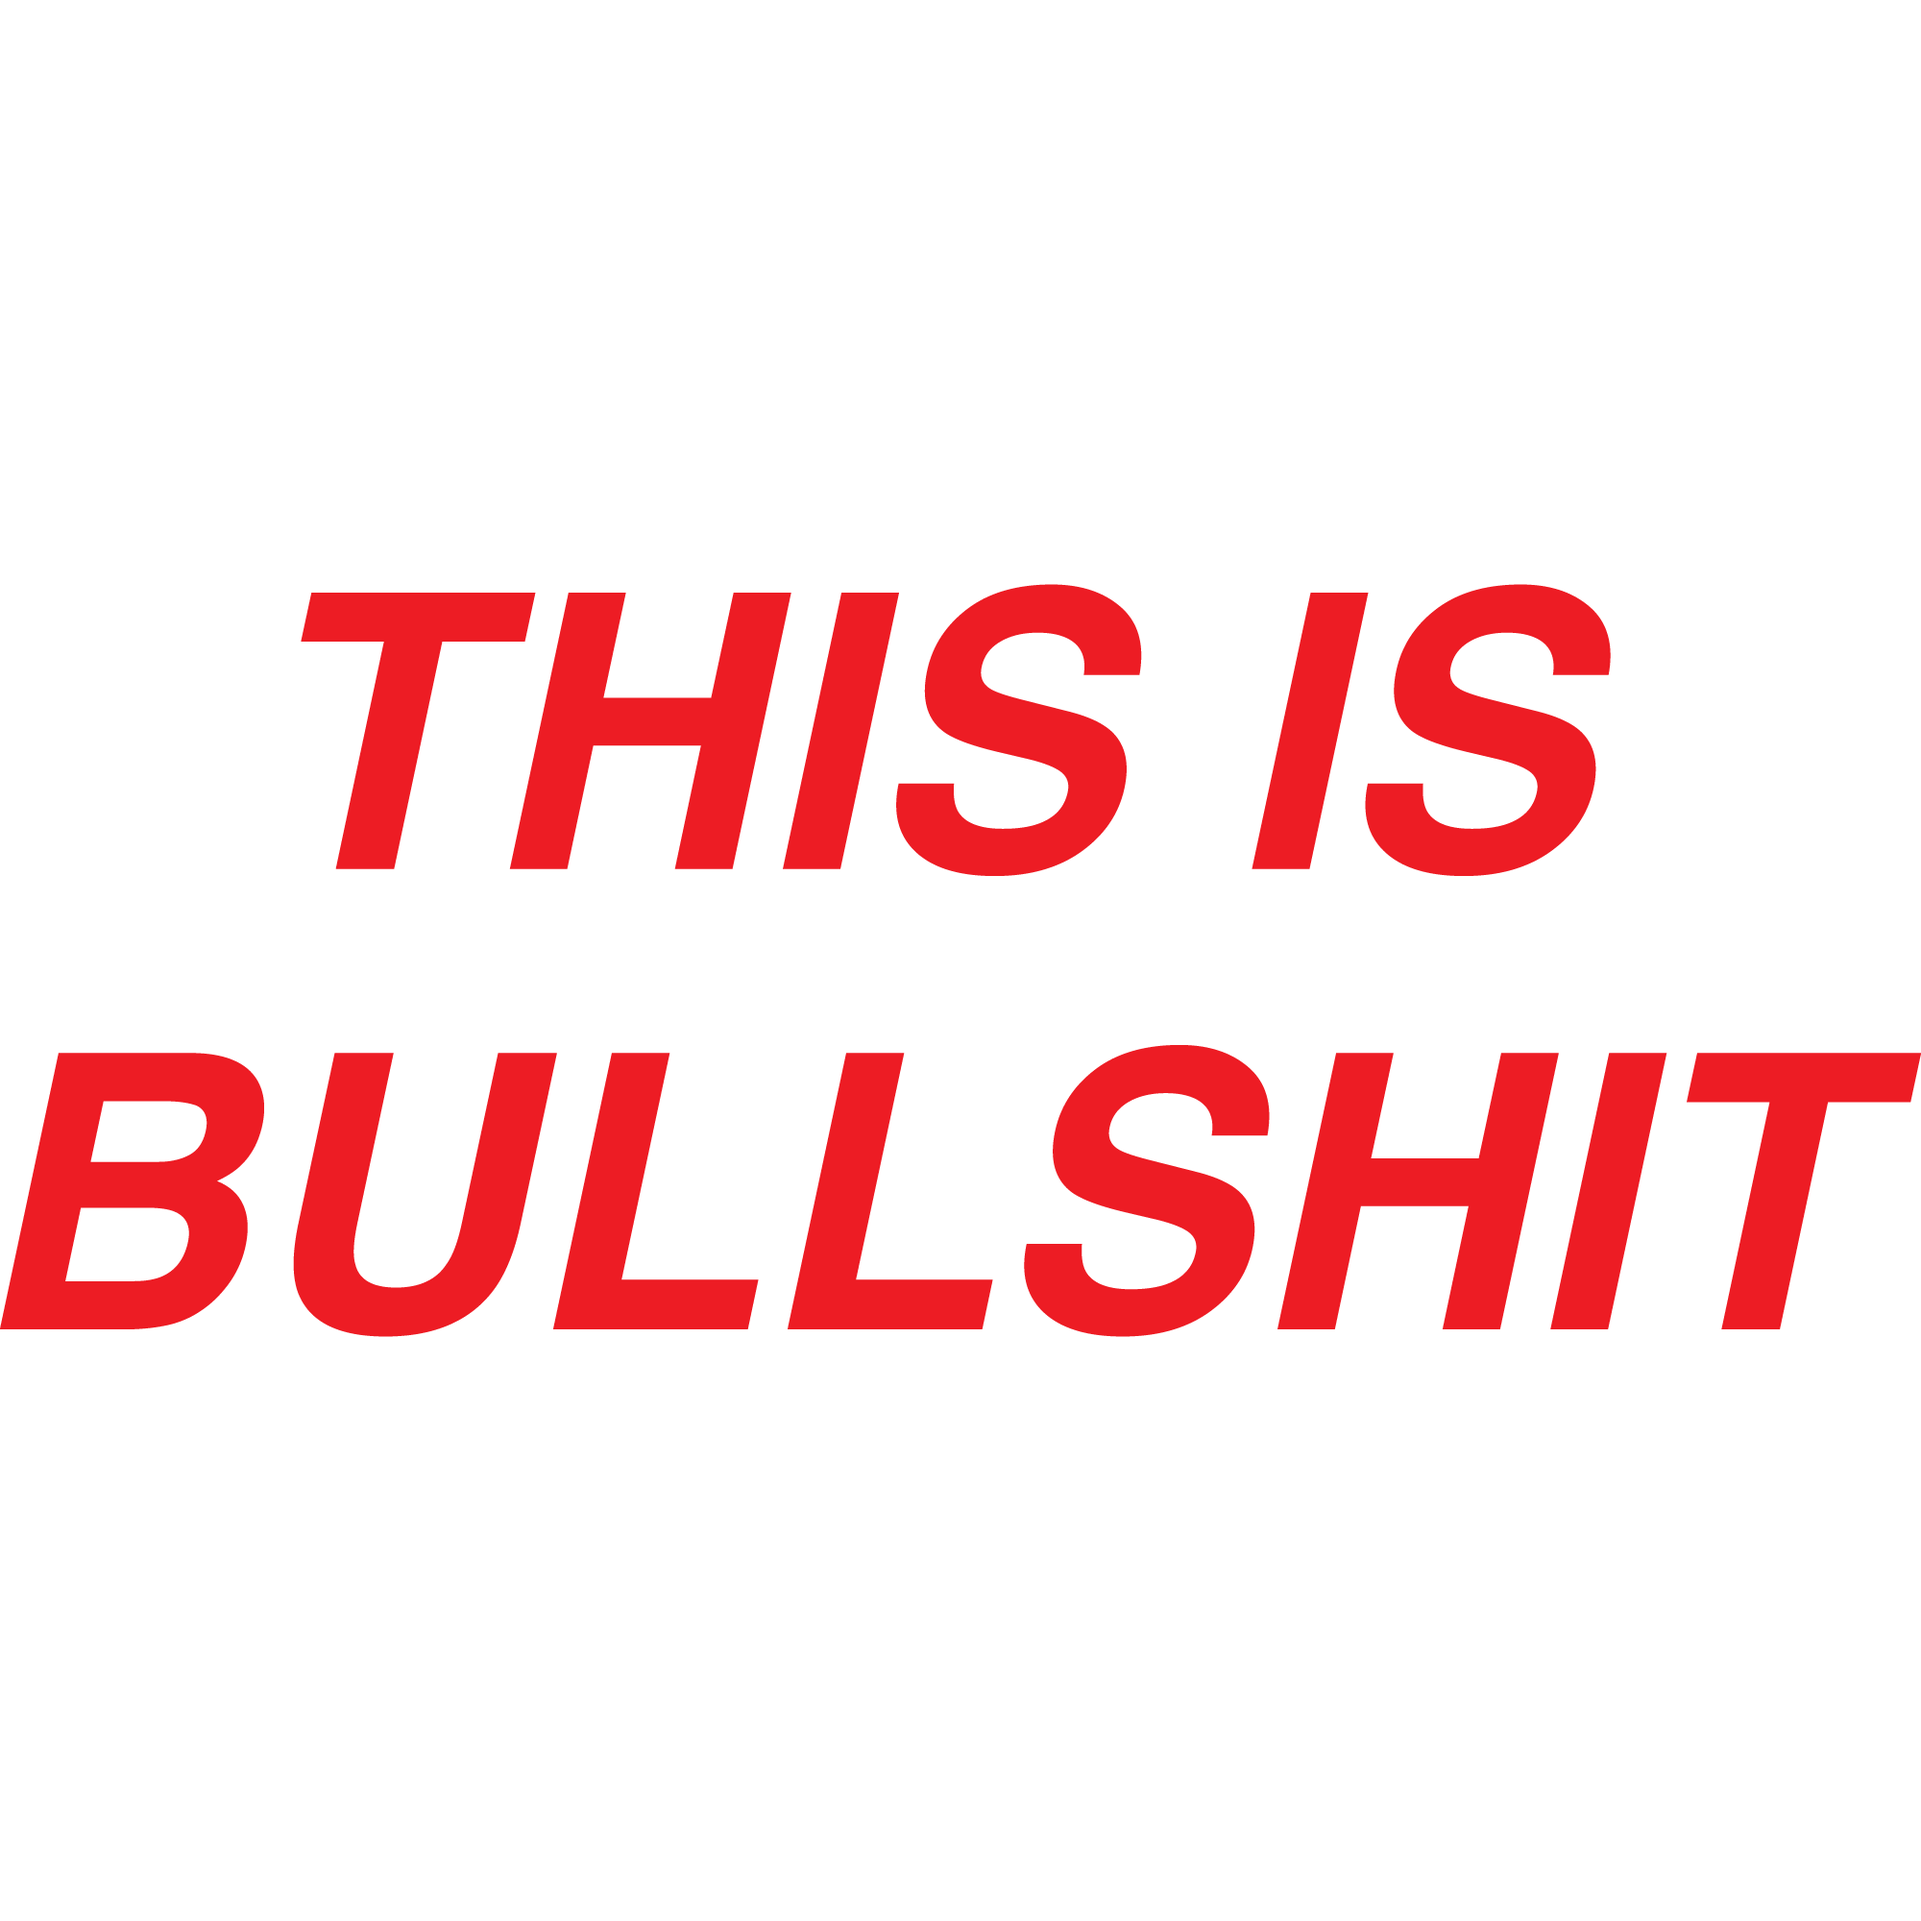
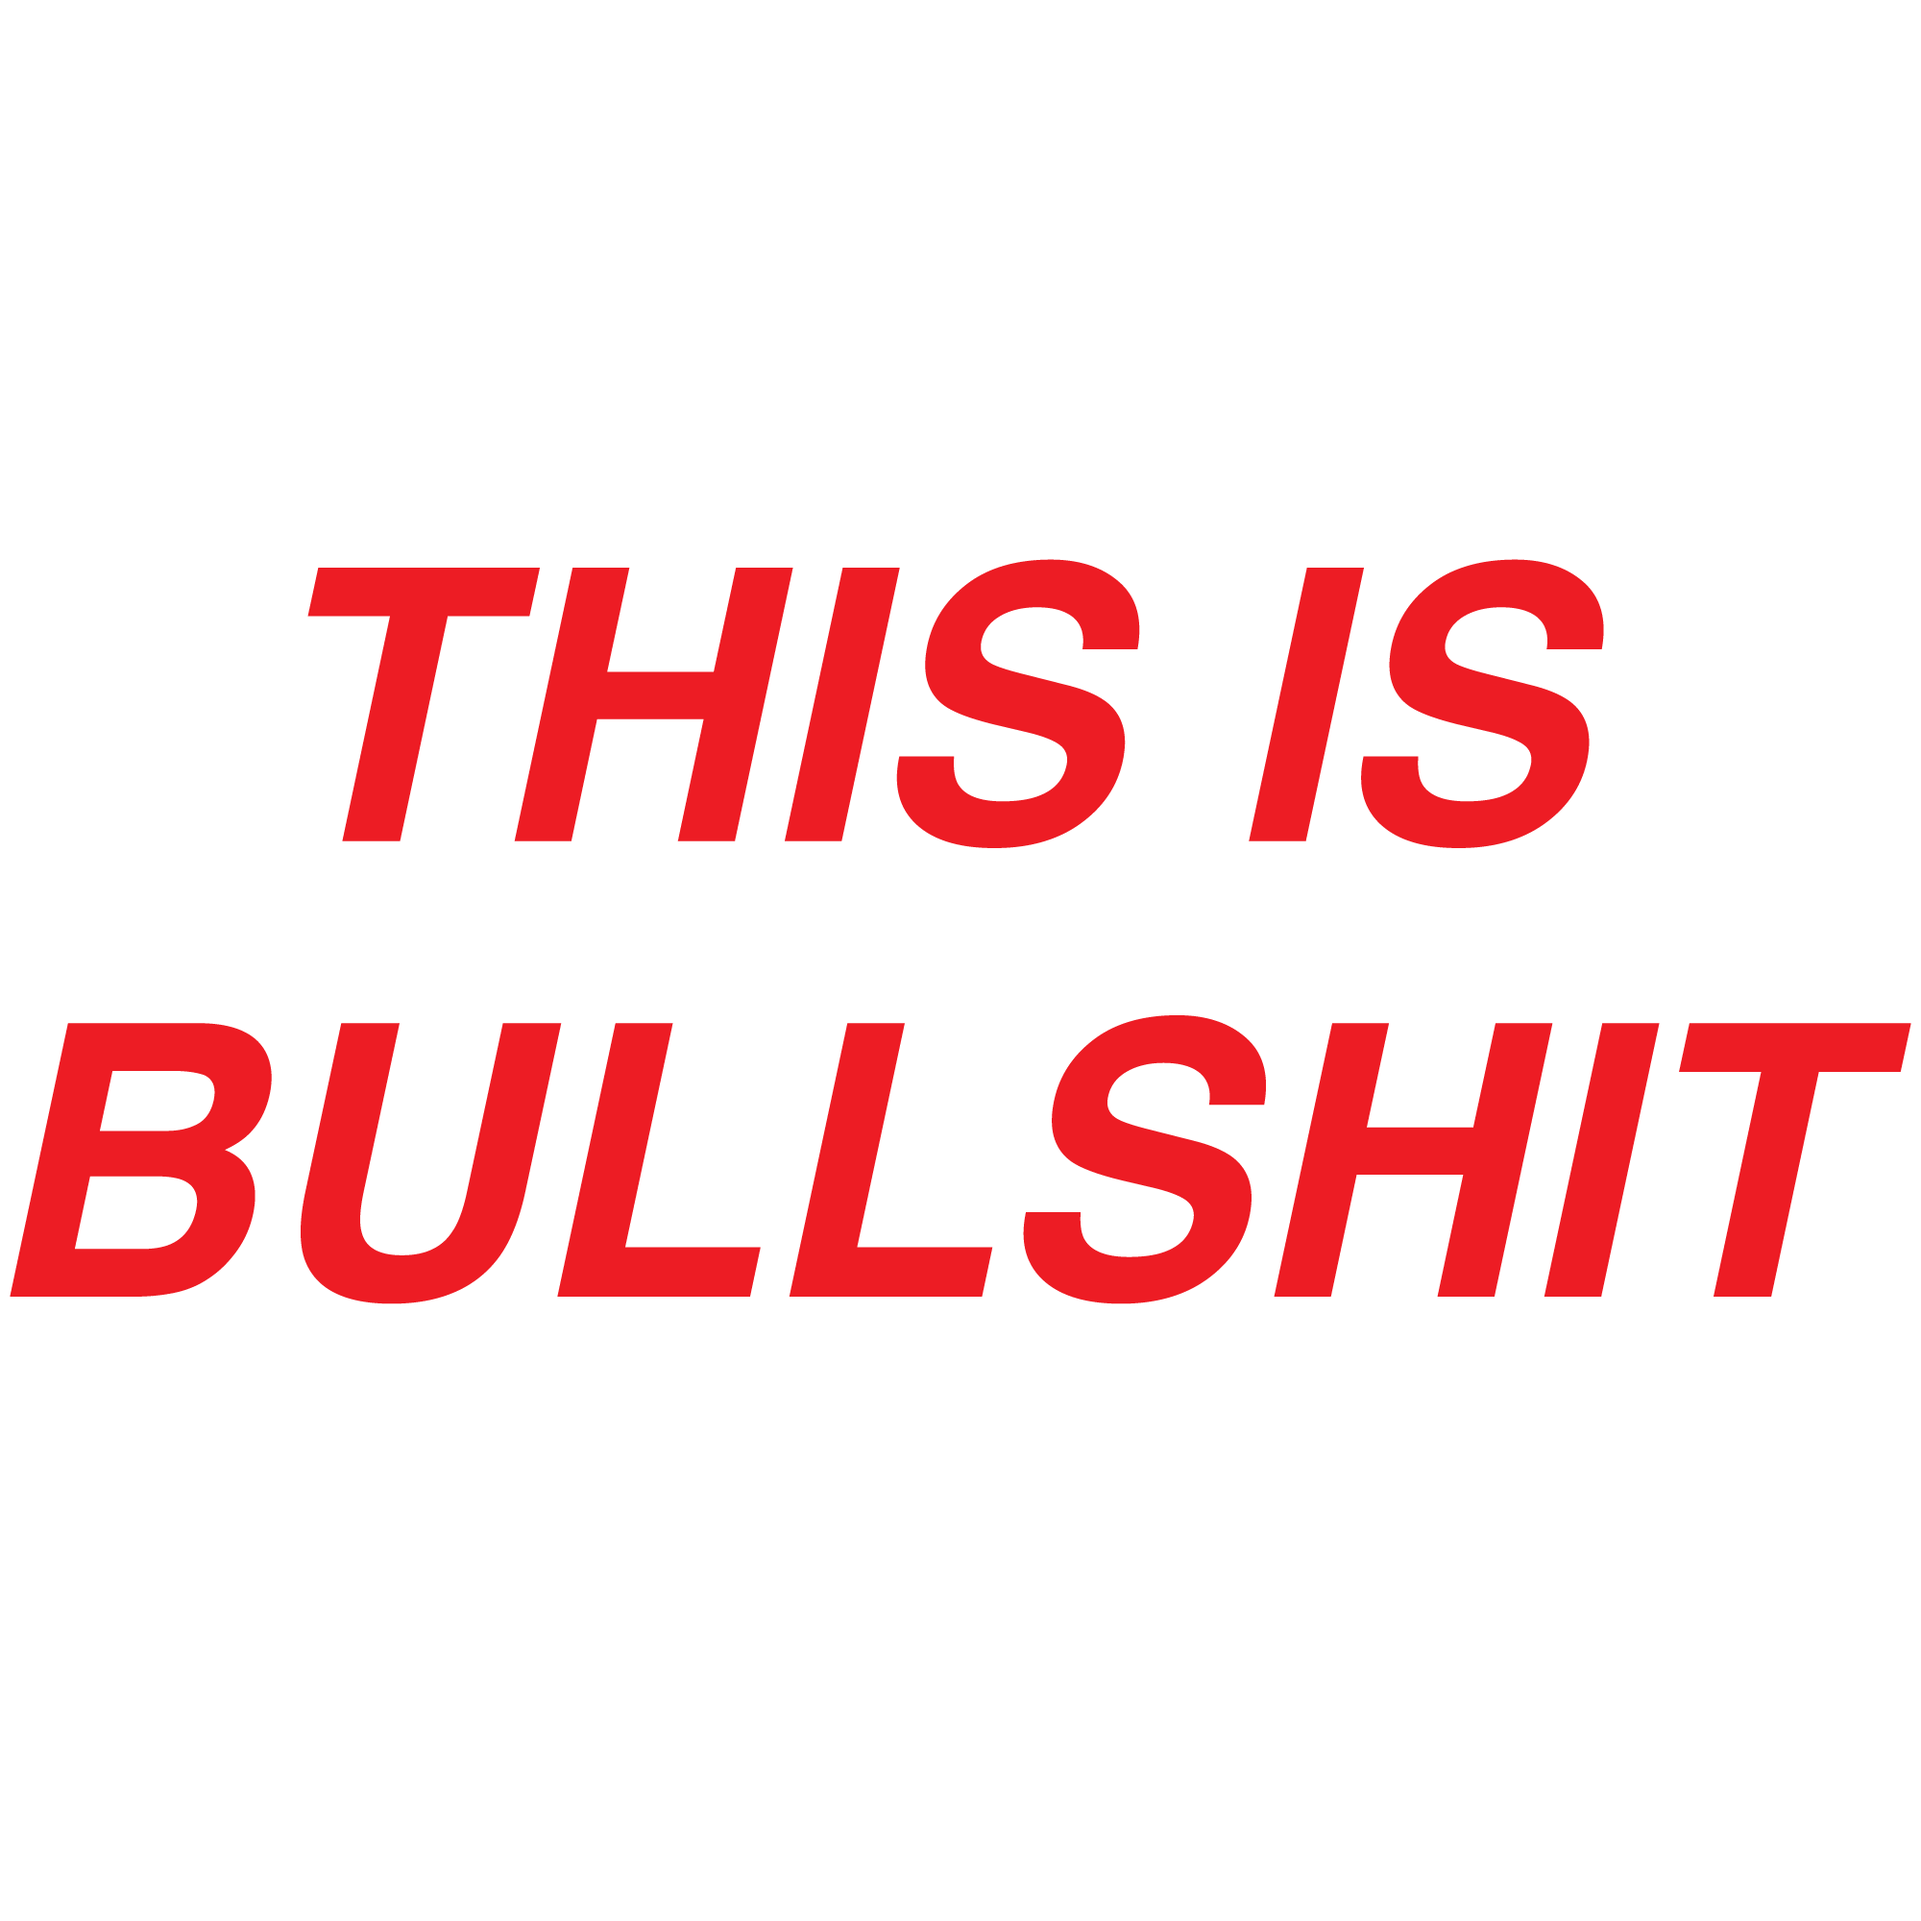
Opacity fixed... it was a long day. 11/26 see note.

diff --git a/src/sass/_base.scss b/src/sass/_base.scss
@@ -146,8 +146,15 @@ textarea {
 }
 
 .render-reduce {
-  width: 70%;
-  height: 70%;
+  width: 80%;
+  height: 80%;
+}
+.render-text-title {
+  position: absolute;
+  font-size: 3rem;
+  line-height: 3rem;
+  right: 10%;
+  bottom: calc(10% - 4rem);
 }
 
 .render-box {
@@ -191,14 +198,6 @@ textarea {
   background-repeat: no-repeat;
 }
 
-.render-text-title {
-  position: absolute;
-  font-size: 3rem;
-  line-height: 3rem;
-  right: 15%;
-  bottom: calc(15% - 4rem);
-}
-
 .render-inner-shadow {
   width: 100%;
   height: 100%;
@@ -208,3 +207,5 @@ textarea {
   left: -100vw;
   top: -100vh;
 }
+
+///CHILBAKJDKSAJDSALKDJALSKJDLKASJDLKASJDLKAJSLDKJASL

diff --git a/src/js/controller.js b/src/js/controller.js
@@ -1,5 +1,4 @@
 import * as model from './model.js';
-import * as config from './config.js';
 import artworkView from './view/artworkView.js';
 
 const artworkContainer = document.querySelector('.render-artwork');
@@ -34,7 +33,6 @@ const controlGenerateArtwork = async function (renderImage) {
   try {
     // reduce dummy to fit in the center with 70%
     artworkView.artworkReducer('add');
-    document.querySelector('.render-origial-image').style.opacity = 0.5;
     //
     await model.loadArtwork(renderImage);
 

diff --git a/src/js/view/artworkView.js b/src/js/view/artworkView.js
@@ -51,10 +51,12 @@ class ArtworkView {
     // Adds CSS values to renderImage to be conveted to canvas
     if (type === 'add') {
       this._renderOriginalImage.classList.add('render-reduce');
+      this._renderOriginalImage.style.opacity = config.OPACITY;
     }
 
     if (type === 'remove') {
       this._renderOriginalImage.classList.remove('render-reduce');
+      this._renderOriginalImage.style.opacity = 1;
     }
   }
 

diff --git a/index.html b/index.html
@@ -104,7 +104,7 @@
     </div>
 
     <div class="render-box render-element-hide">
-      <div class="render-inner-box inner-shadow">
+      <div class="render-inner-box">
         <div class="render-artwork inner-shadow">
           <div class="render-origial-image">
             <div class="render-inner-shadow inner-shadow">

diff --git a/src/js/config.js b/src/js/config.js
@@ -1,3 +1,3 @@
 export const ARTWORK = require('../img/comedian.jpg');
-// export const OPACITY = 0.9;
+export const OPACITY = 0.8;
 export const RENDERQUALITY = 1000;
